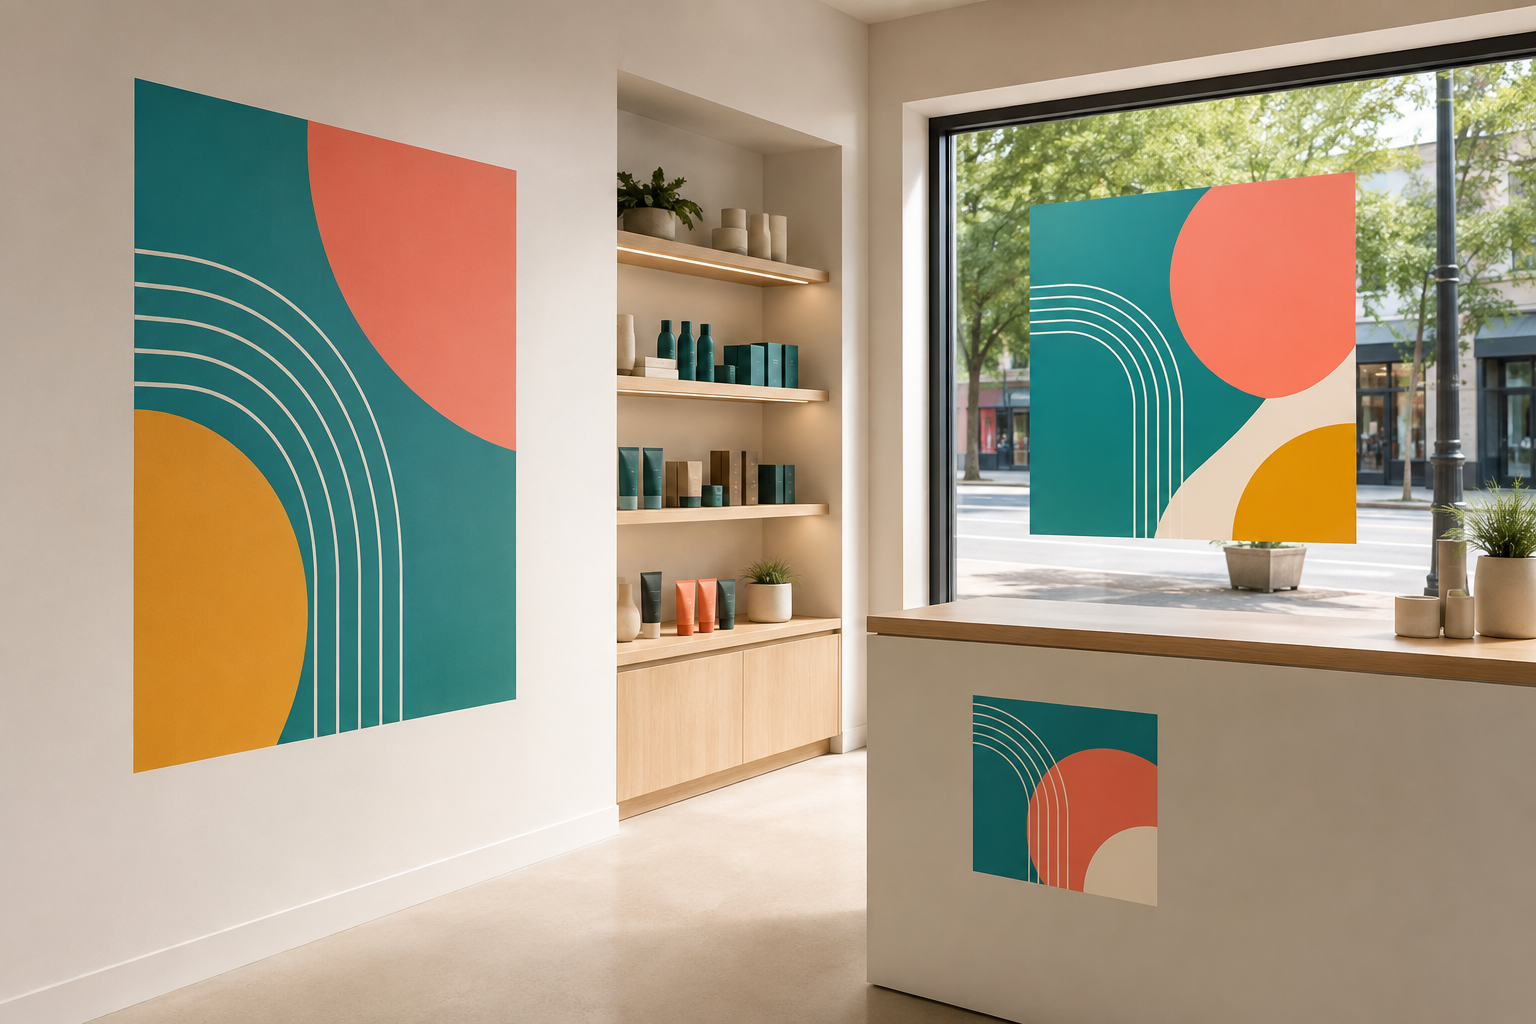
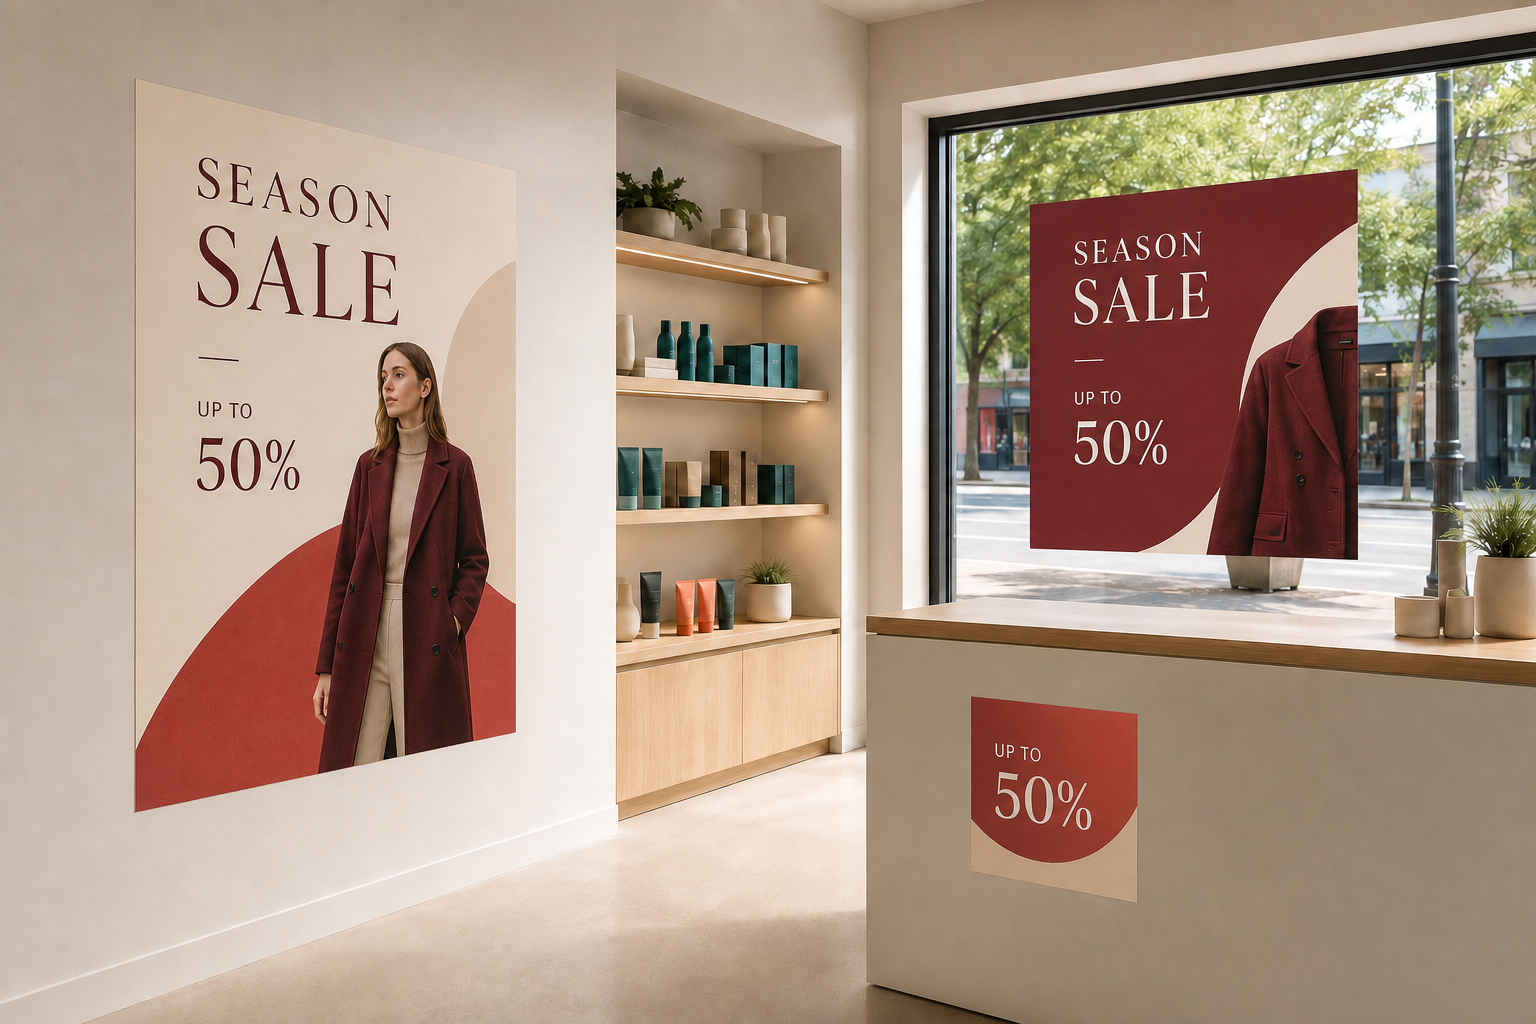
유포지 메인 및 활용 이미지 수정

diff --git a/detail/yupo.html b/detail/yupo.html
@@ -1,7 +1,7 @@
 <!DOCTYPE html><html lang="ko"><head><meta charset="UTF-8"><meta name="viewport" content="width=device-width,initial-scale=1.0"><title>유포지 상세페이지</title></head><body style="margin:0;padding:0;background:#fff;color:#173238;font-family:Pretendard,'Noto Sans KR',Arial,sans-serif;word-break:keep-all;"><div style="width:100%;max-width:100%;overflow:hidden;background:#fff;"><div style="width:100%;max-width:1200px;margin:0 auto;">
-<section style="width:100%;background:#f3f7f7;"><img src="https://tara-shopping.vercel.app/images/yupo-hero.png" alt="매장 유리와 벽면에 부착한 유포지 출력물" style="display:block;width:100%;max-width:100%;height:auto;"><div style="padding:58px 6% 68px;text-align:center;background:linear-gradient(180deg,#f3f7f7 0%,#fff 100%);"><p style="margin:0 0 14px;color:#168b8d;font-size:15px;font-weight:800;letter-spacing:.18em;">ADHESIVE SYNTHETIC PAPER</p><h1 style="margin:0;color:#14353b;font-size:clamp(40px,6vw,70px);line-height:1.15;font-weight:900;letter-spacing:-.05em;">붙이는 순간 완성되는<br>맞춤 유포지 출력</h1><p style="margin:24px auto 0;max-width:780px;color:#5c7075;font-size:clamp(16px,2vw,21px);line-height:1.85;">발색이 좋고 쉽게 찢어지지 않는 접착식 합성지로<br>매장 유리·벽면·전시 패널을 선명하게 연출합니다.</p></div></section>
+<section style="width:100%;background:#f3f7f7;"><img src="https://tara-shopping.vercel.app/images/yupo-hero.png?v=2" alt="패션 매장 유리와 벽면에 부착하며 압착하는 유포지 세일 출력물" style="display:block;width:100%;max-width:100%;height:auto;"><div style="padding:58px 6% 68px;text-align:center;background:linear-gradient(180deg,#f3f7f7 0%,#fff 100%);"><p style="margin:0 0 14px;color:#168b8d;font-size:15px;font-weight:800;letter-spacing:.18em;">ADHESIVE SYNTHETIC PAPER</p><h1 style="margin:0;color:#14353b;font-size:clamp(40px,6vw,70px);line-height:1.15;font-weight:900;letter-spacing:-.05em;">붙이는 순간 완성되는<br>맞춤 유포지 출력</h1><p style="margin:24px auto 0;max-width:780px;color:#5c7075;font-size:clamp(16px,2vw,21px);line-height:1.85;">발색이 좋고 쉽게 찢어지지 않는 접착식 합성지로<br>매장 유리·벽면·전시 패널을 선명하게 연출합니다.</p></div></section>
 <section style="padding:88px 6%;background:#fff;"><div style="text-align:center;"><p style="margin:0 0 12px;color:#168b8d;font-size:14px;font-weight:800;letter-spacing:.17em;">PRODUCT POINT</p><h2 style="margin:0;color:#15343a;font-size:clamp(28px,4vw,46px);line-height:1.3;font-weight:900;letter-spacing:-.04em;">실사출력에서 가장 폭넓게 쓰이는 접착 소재</h2><p style="margin:18px auto 44px;max-width:770px;color:#66777b;font-size:17px;line-height:1.8;">선명한 인쇄면과 간편한 부착성, 다양한 재단·코팅 선택으로 단기 프로모션부터 상시 안내까지 활용할 수 있습니다.</p></div><table style="width:100%;border-collapse:separate;border-spacing:14px;table-layout:fixed;"><tr><td style="width:33.33%;padding:36px 24px;text-align:center;vertical-align:top;border:1px solid #dce9e8;border-radius:18px;background:#f7fbfb;"><div style="margin:0 auto 20px;width:58px;height:58px;border-radius:50%;background:#dff3f1;color:#168b8d;font-size:25px;line-height:58px;font-weight:900;">01</div><h3 style="margin:0 0 12px;font-size:21px;">선명한 발색</h3><p style="margin:0;color:#65777b;font-size:15px;line-height:1.75;">사진과 그래픽을 또렷하게 표현해 홍보물의 주목도를 높입니다.</p></td><td style="width:33.33%;padding:36px 24px;text-align:center;vertical-align:top;border:1px solid #dce9e8;border-radius:18px;background:#f7fbfb;"><div style="margin:0 auto 20px;width:58px;height:58px;border-radius:50%;background:#dff3f1;color:#168b8d;font-size:25px;line-height:58px;font-weight:900;">02</div><h3 style="margin:0 0 12px;font-size:21px;">간편한 부착</h3><p style="margin:0;color:#65777b;font-size:15px;line-height:1.75;">후면 접착면으로 유리와 매끈한 벽면에 바로 부착할 수 있습니다.</p></td><td style="width:33.33%;padding:36px 24px;text-align:center;vertical-align:top;border:1px solid #dce9e8;border-radius:18px;background:#f7fbfb;"><div style="margin:0 auto 20px;width:58px;height:58px;border-radius:50%;background:#dff3f1;color:#168b8d;font-size:25px;line-height:58px;font-weight:900;">03</div><h3 style="margin:0 0 12px;font-size:21px;">맞춤 재단·코팅</h3><p style="margin:0;color:#65777b;font-size:15px;line-height:1.75;">사각·모양재단과 유광·무광 코팅으로 목적에 맞게 완성합니다.</p></td></tr></table></section>
-<section style="padding:88px 6%;background:#153a3f;color:#fff;"><table style="width:100%;border-collapse:collapse;table-layout:fixed;"><tr><td style="width:43%;padding:10px 5% 10px 0;vertical-align:middle;"><p style="margin:0 0 10px;color:#77d0c8;font-size:14px;font-weight:800;letter-spacing:.17em;">USE CASE</p><h2 style="margin:0 0 22px;font-size:clamp(28px,4vw,44px);line-height:1.3;font-weight:900;letter-spacing:-.04em;">공간에 맞춰 붙이는<br>유연한 홍보 솔루션</h2><p style="margin:0;color:#c4d3d5;font-size:16px;line-height:1.85;">매장 유리창, 실내 벽면, 행사장 안내, 쇼윈도 프로모션, 전시 패널, 제품·가격 안내 스티커 등 다양한 곳에 활용할 수 있습니다.</p></td><td style="width:57%;padding:0 0 0 5%;vertical-align:middle;"><img src="https://tara-shopping.vercel.app/images/yupo-usecase.png" alt="벽면 유리 카운터에 적용한 유포지 활용 사례" style="display:block;width:100%;max-width:100%;height:auto;border-radius:18px;"></td></tr></table></section>
+<section style="padding:88px 6%;background:#153a3f;color:#fff;"><table style="width:100%;border-collapse:collapse;table-layout:fixed;"><tr><td style="width:43%;padding:10px 5% 10px 0;vertical-align:middle;"><p style="margin:0 0 10px;color:#77d0c8;font-size:14px;font-weight:800;letter-spacing:.17em;">USE CASE</p><h2 style="margin:0 0 22px;font-size:clamp(28px,4vw,44px);line-height:1.3;font-weight:900;letter-spacing:-.04em;">공간에 맞춰 붙이는<br>유연한 홍보 솔루션</h2><p style="margin:0;color:#c4d3d5;font-size:16px;line-height:1.85;">매장 유리창, 실내 벽면, 행사장 안내, 쇼윈도 프로모션, 전시 패널, 제품·가격 안내 스티커 등 다양한 곳에 활용할 수 있습니다.</p></td><td style="width:57%;padding:0 0 0 5%;vertical-align:middle;"><img src="https://tara-shopping.vercel.app/images/yupo-usecase.png?v=2" alt="패션 매장 벽면 유리 카운터에 적용한 유포지 세일 출력물 활용 사례" style="display:block;width:100%;max-width:100%;height:auto;border-radius:18px;"></td></tr></table></section>
 <section style="padding:88px 6%;background:#f5f8f8;"><div style="text-align:center;"><p style="margin:0 0 12px;color:#168b8d;font-size:14px;font-weight:800;letter-spacing:.17em;">BACKING GUIDE</p><h2 style="margin:0 0 42px;color:#15343a;font-size:clamp(28px,4vw,44px);line-height:1.3;font-weight:900;letter-spacing:-.04em;">부착면에 맞는 뒷면 색상 선택</h2></div><table style="width:100%;border-collapse:collapse;table-layout:fixed;"><tr><td style="width:55%;padding:0 4% 0 0;vertical-align:middle;"><img src="https://tara-shopping.vercel.app/images/yupo-material.png" alt="화이트 뒷면과 그레이 뒷면 유포지 소재 비교" style="display:block;width:100%;max-width:100%;height:auto;border-radius:18px;"></td><td style="width:45%;padding:0 0 0 4%;vertical-align:middle;"><div style="padding:28px;border-radius:16px;background:#fff;margin-bottom:16px;"><h3 style="margin:0 0 12px;font-size:22px;color:#17383e;">화이트 뒷면</h3><p style="margin:0;color:#65777b;font-size:15px;line-height:1.8;">깨끗하고 밝은 표면에 적합합니다. 부착면 색상이 비칠 수 있으므로 기존 출력물 위 덧붙임에는 주의해 주세요.</p></div><div style="padding:28px;border-radius:16px;background:#173b40;"><h3 style="margin:0 0 12px;font-size:22px;color:#fff;">그레이 뒷면</h3><p style="margin:0;color:#c7d6d7;font-size:15px;line-height:1.8;">뒷배경 비침을 줄여 기존 광고물 위 덧붙임이나 색상이 진한 부착면에 유리합니다.</p></div></td></tr></table></section>
 <section style="padding:88px 6%;background:#fff;"><img src="https://tara-shopping.vercel.app/images/yupo-coating-guide.png" alt="유포지 유광 무광 비코팅 비교" style="display:block;width:100%;max-width:100%;height:auto;margin:0 auto;"></section>
 <section style="padding:88px 6%;background:#f3f7f7;"><img src="https://tara-shopping.vercel.app/images/yupo-cut-guide.png" alt="유포지 사각 모양재단과 CUT 칼선 작업가이드" style="display:block;width:100%;max-width:100%;height:auto;margin:0 auto;"></section>
